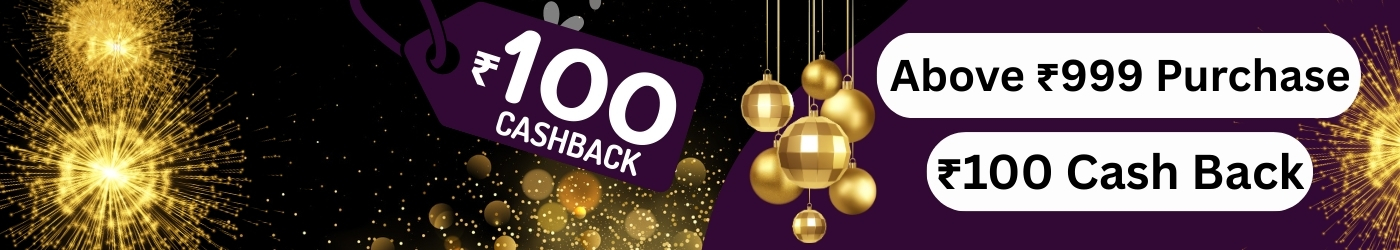
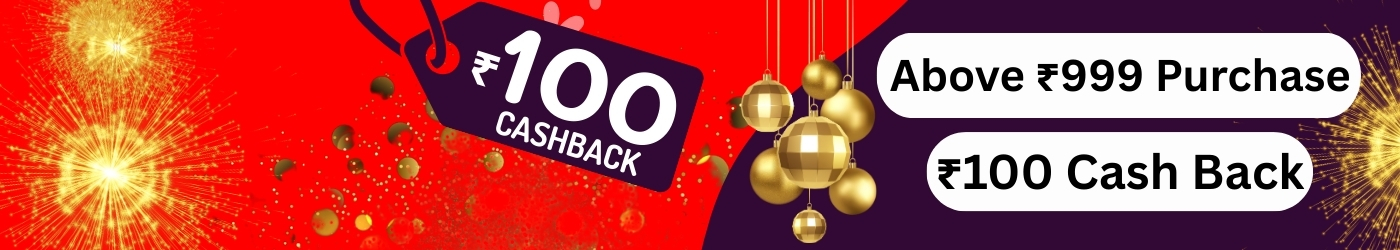
Added New Year Posters

diff --git a/src/ProfilePage.js b/src/ProfilePage.js
@@ -27,8 +27,9 @@ import RequestQuoteIcon from '@mui/icons-material/RequestQuote';
 import AccountBalanceIcon from '@mui/icons-material/AccountBalance';
 import TransferWithinAStationIcon from '@mui/icons-material/TransferWithinAStation';
 // import Banner from './img/ChristmasVideo.mp4';
-import Banner2 from './img/MilkOffers.jpeg';   
+// import Banner2 from './img/MilkOffers.jpeg';   
 // import Banner2 from './img/ChickenOffers.jpeg';
+import Banner2 from './img/DrinkOffers.jpeg';   
 import Banner3 from './img/45AboveOffers.jpeg'; 
 // import BannerVideo from './img/ChristmasVideo.mp4';
 // import VolumeOffIcon from '@mui/icons-material/VolumeOff';    
@@ -88,7 +89,9 @@ import DwakraProducts from './img/DwakraLogo.jpeg';
 import Banner1Img from './img/50Cashback.jpeg';
 import Banner2Img from './img/100Cashback.jpeg';
 import Banner3Img from './img/300Cashback.jpeg';
-import DeliveryImg from './img/DeliveryPoster.jpeg';
+import DeliveryImg from './img/NewYearWishes.jpeg';
+
+// import DeliveryImg from './img/DeliveryPoster.jpeg';
 // import BathImg from './img/bathImg.jpeg';
 // import FlourImg from './img/FlourImg.jpeg';
 // import FaceImg from './img/FaceImg.jpeg';  
@@ -870,7 +873,6 @@ const groceryCategories = [
    { label: 'Vegetables', value: 'Vegetables', image: VegetablesImg },
   { label: 'Fruits', value: 'Fruits', image: FruitsImg }, 
   { label: 'Kitchenware Appliances', value: 'Kitchenware Appliances', image: KitchenImg },
-  { label: 'Chicken', value: 'Chicken', image: ChickenImg },
   { label: 'Ice Creams', value: 'Ice Creams', image: IcecreamImg },
   { label: 'Atta & Flours', value: 'Atta & Flours', image: AttaImg },
   { label: 'Rice & Ravva', value: 'Rice & Ravva', image: RavvaImg }, 
@@ -895,7 +897,7 @@ const groceryCategories = [
   { label: 'Kids Zone', value: 'Kids Zone', image: KidsImg },
   { label: 'Health Care', value: 'Health Care', image: HealthImg },
   { label: 'DWCRA Products', value: 'DWCRA', image: DwakraProducts },
-
+  { label: 'Chicken', value: 'Chicken', image: ChickenImg },
 ];
 
 const collectionsCategories = [

diff --git a/src/Footer.js b/src/Footer.js
@@ -5,7 +5,7 @@ const Footer = () => {
     <footer className="footer" style={{fontSize: "12px"}}>
      <strong> Powered by</strong> <span className="text-warning strong">Lakshmi Sai Service Provider</span>
       <br />
-      <span className="small">&copy; 2025 Lakshmi software development center. All rights reserved.</span> <br/>
+      <span className="small">&copy; 2026 Lakshmi software development center. All rights reserved.</span> <br/>
        <span className="small">
         <strong> Office Hours :</strong> 06:00 AM-09:00 PM
       </span>
